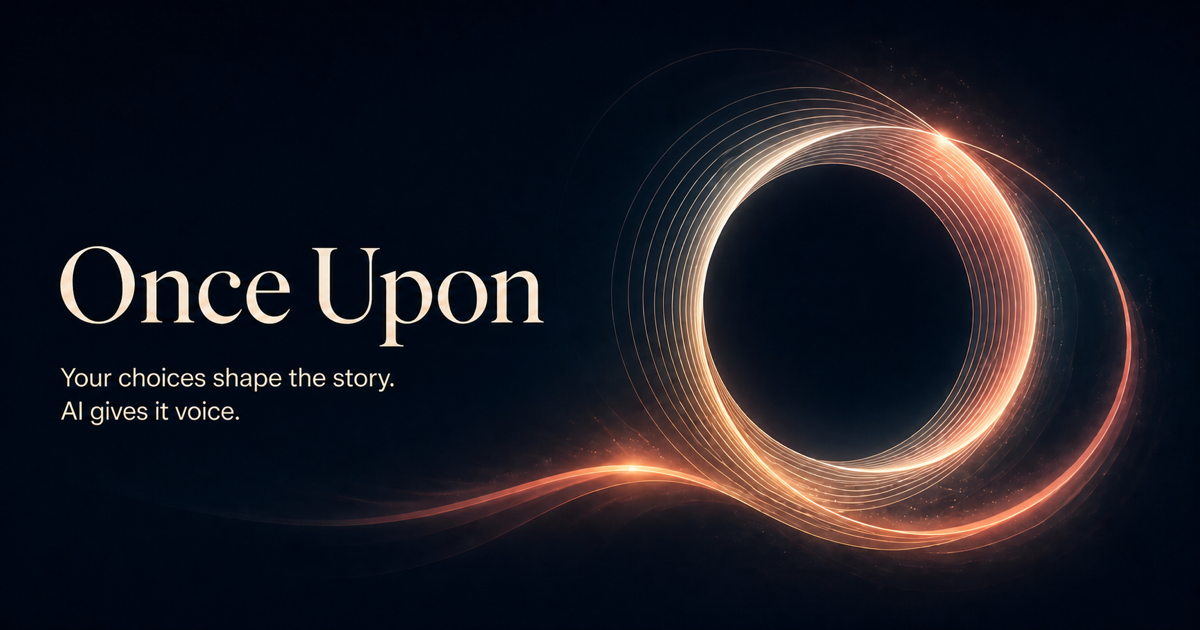
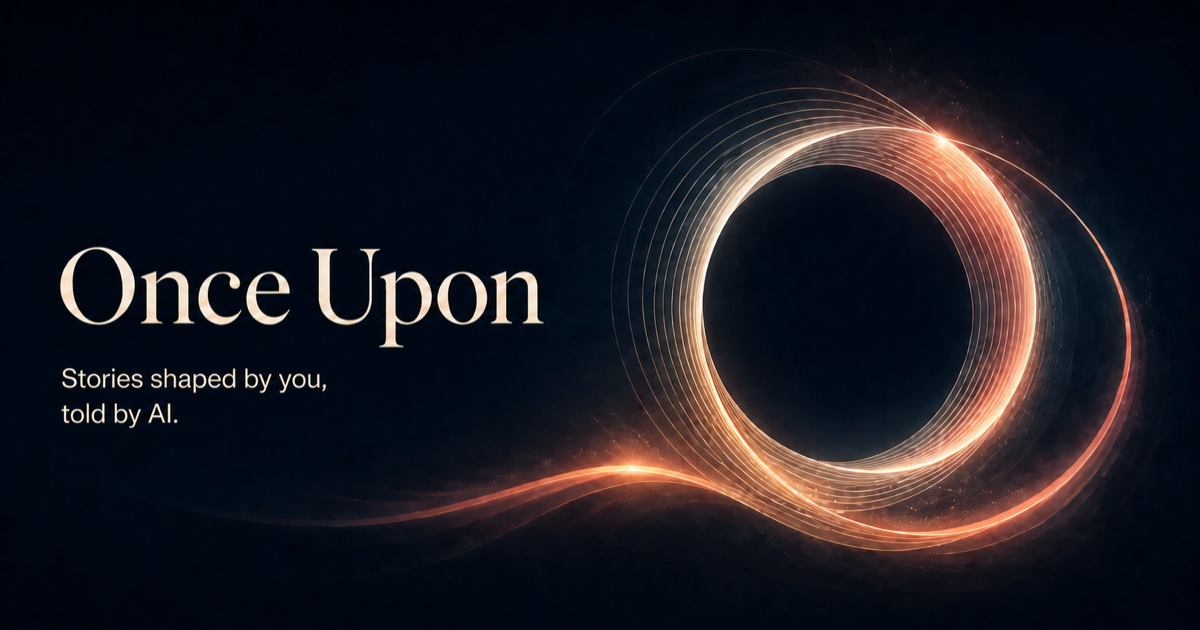
feat: refresh Once Upon brand copy

diff --git a/app/layout.tsx b/app/layout.tsx
@@ -8,20 +8,20 @@ export const metadata: Metadata = {
     template: '%s | Once Upon',
   },
   description:
-    'You choose. The web keeps the truth. Your agent tells the story.',
+    'Interactive stories where you choose the action, the page resolves the outcome, and AI tells the story.',
   openGraph: {
     type: 'website',
     siteName: 'Once Upon',
     title: 'Once Upon',
     description:
-      'You choose. The web keeps the truth. Your agent tells the story.',
+      'Interactive stories where you choose the action, the page resolves the outcome, and AI tells the story.',
     images: [{ url: '/og.png', width: 1200, height: 630, alt: 'Once Upon' }],
   },
   twitter: {
     card: 'summary_large_image',
     title: 'Once Upon',
     description:
-      'You choose. The web keeps the truth. Your agent tells the story.',
+      'Interactive stories where you choose the action, the page resolves the outcome, and AI tells the story.',
     images: ['/og.png'],
   },
 };

diff --git a/README.md b/README.md
@@ -1,27 +1,63 @@
 # Once Upon
 
-> You choose. The web keeps the truth. Your agent tells the story.
+> Stories shaped by you, told by AI.
 
-Once Upon is a platform for agent-narrated, browser-owned story experiences.
-Each experience binds one story, one presentation frame, and one narration
-contract so the agent can tell the story without owning or rewriting its rules.
+Once Upon is a platform for interactive stories you play with AI. Describe what
+your character does in natural language; the page applies the rules, rolls the
+dice, and saves the exact outcome on your device. AI turns that result into the
+next part of the story without changing what happened.
 
-## First experience
+## The Last Manuscript
 
-**The Last Manuscript** is the first Once Upon experience. It combines:
+**The Last Manuscript** is the first and currently only playable Once Upon
+experience: a dark-fantasy mystery with up to six pages before midnight. Create
+a traveler, choose a strength, and tell ChatGPT what you do. Every saved result
+becomes another page in your manuscript.
 
-- story: `last-tavern`
-- frame: `book`
-- narration: `prose`
+Playing requires a WebMCP-enabled ChatGPT browser with site tools turned on.
+Other browsers can explore the sample manuscript, but cannot start or continue
+the story.
 
-The player chooses actions in natural language. The browser resolves the rules,
-rolls, inventory, clues, abilities, and ending. The connected agent commits
-grounded narration for the exact saved result.
+## How to play
 
-Open it at either `/` or `/experiences/the-last-manuscript`. Both routes use the
-same experience definition and local save.
+1. Open the experience in a WebMCP-enabled ChatGPT browser.
+2. Create your character and choose one strength: Wits, Nerve, or Grace.
+3. Copy the opening message from the manuscript into the chat beside the page.
+4. Describe what you do. The page resolves and saves the outcome, ChatGPT writes
+   it into the manuscript, and you choose what to do next.
+
+Keep the page open while you play. Once started, the same local save is
+available at `/` and `/experiences/the-last-manuscript`.
+
+## How it works
+
+| You                                | The page                                                                        | AI                                                         |
+| ---------------------------------- | ------------------------------------------------------------------------------- | ---------------------------------------------------------- |
+| Choose actions in natural language | Owns the rules, D20 rolls, inventory, clues, abilities, endings, and local save | Interprets your intent and narrates the exact saved result |
+
+The page saves an action before AI narrates it. It will not accept another
+action until that result has been committed to the story.
+
+## What makes it different
+
+- **The AI's tools become part of the story.** Progress can unlock new
+  page-local abilities that ChatGPT can actually call, then retire after use.
+- **A saved outcome cannot be rewritten.** AI can bring each turn to life, but
+  it cannot change the roll, clues, inventory, abilities, or ending.
+- **Interruptions do not reroll the story.** If ChatGPT stops mid-turn or the
+  page reloads, the exact pending result is restored before play continues.
 
 ## Architecture
+
+Each experience binds a story, presentation frame, and narration contract. The
+current experience uses:
+
+| Contract   | ID                    | Responsibility                                |
+| ---------- | --------------------- | --------------------------------------------- |
+| Experience | `the-last-manuscript` | Binds the compatible contracts below          |
+| Story      | `last-tavern`         | Rules, state, actions, abilities, and endings |
+| Frame      | `book`                | Book-specific interaction and presentation    |
+| Narration  | `prose`               | Validates grounded prose from AI              |
 
 ```text
 app/                              Routes and Once Upon metadata
@@ -40,6 +76,10 @@ current experience has unlocked them.
 Sessions use schema version 2 in the `once-upon` IndexedDB database, under the
 `experience-sessions` store and `active:${experienceId}` keys. The previous
 database is intentionally neither read, migrated, nor deleted.
+
+See [Adding or replacing a story](docs/EXPERIENCES.md) and the
+[interruption and recovery protocol](docs/RECOVERY_PROTOCOL.md) for the full
+contracts.
 
 ## Local development
 
